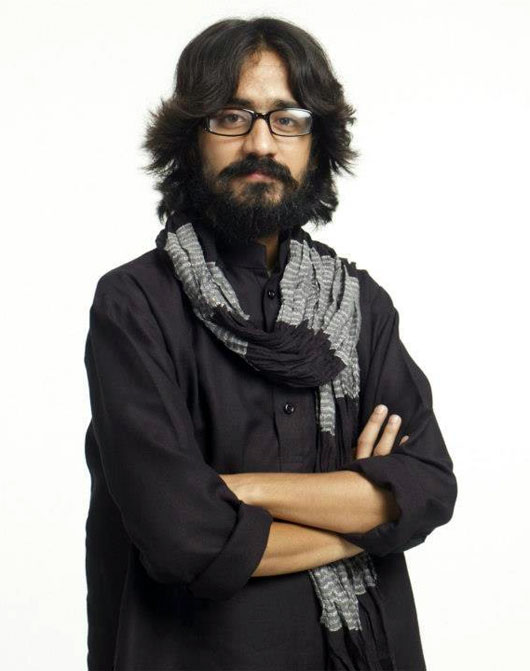
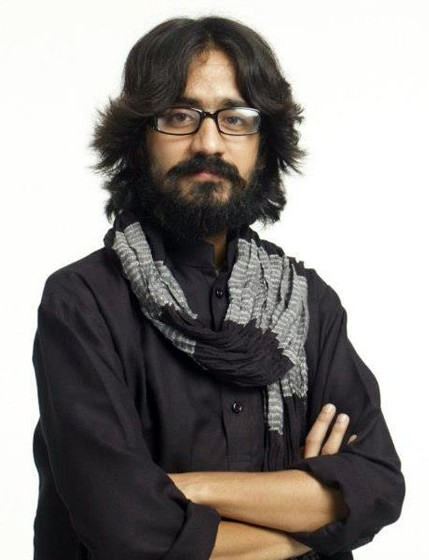
Speakers added latest

diff --git a/index.html b/index.html
@@ -284,23 +284,32 @@ We hope TEDxTheNorthcapUniversity 2016 will help making a difference in perspect
         	<h1 class="text-center">Event Speakers</h1>
             <div class="row voffset-lg">
                 <div class="col-sm-6">
-                    <img src="img/aseem_trivedi.jpg" class="img-responsive animated zoomIn" alt="Aseem Trivedi"/>
+                    <img src="img/aseem_trivedi.jpg" class="img-responsive animated zoomIn" alt="Aseem Trivedi" style="margin-left:10%;width:80%;" />
                     <h3 class="text-center mg-md">
                         Aseem Trivedi
                     </h3>
                     <p class="text-center">
                         Political Cartoonist and Activist
                     </p>
+                    <div class="text-center" style='margin-top:15px'>
+                        <a class='social-lg' href='https://www.facebook.com/pages/Aseem-Trivedi/181300271978816?fref=ts' target="_blank"><span class='fa fa-facebook icon-sm' style='font-size:30px'></span></a>
+                        <a class='social-lg' href='https://twitter.com/aseem_trivedi' target="_blank"><span class='fa fa-twitter icon-sm' style='font-size:30px;margin-left:50px;'></span></a>
+                    </div>
                 </div>
                 <div class="col-sm-6">
-                    <img src="img/Anubhav-Wadhwa.jpg" class="img-responsive animated zoomIn animDelay02" alt="Anubhav Wadhwa"/>
+                    <img src="img/Anubhav-Wadhwa.jpg" class="img-responsive animated zoomIn animDelay02" alt="Anubhav Wadhwa" style="margin-left:10%;width:80%;"/>
                     <h3 class="text-center mg-md">
                         Anubhav Wadhwa
                     </h3>
                     <p class="text-center">
                         CEO, TechAPTO
                     </p>
+                    <div class="text-center" style='margin-top:15px'>
+                        <a class='social-lg' href='https://www.facebook.com/Anubhav.Wadhwa.TechAPTO?fref=ts' target="_blank"><span class='fa fa-facebook icon-sm' style='font-size:30px'></span></a>
+                        <a class='social-lg' href='https://twitter.com/Anubhav_Wadhwa' target="_blank"><span class='fa fa-twitter icon-sm' style='font-size:30px;margin-left:50px;'></span></a>
+                    </div>
                 </div>
+
             </div>
         </div>
     </div>
